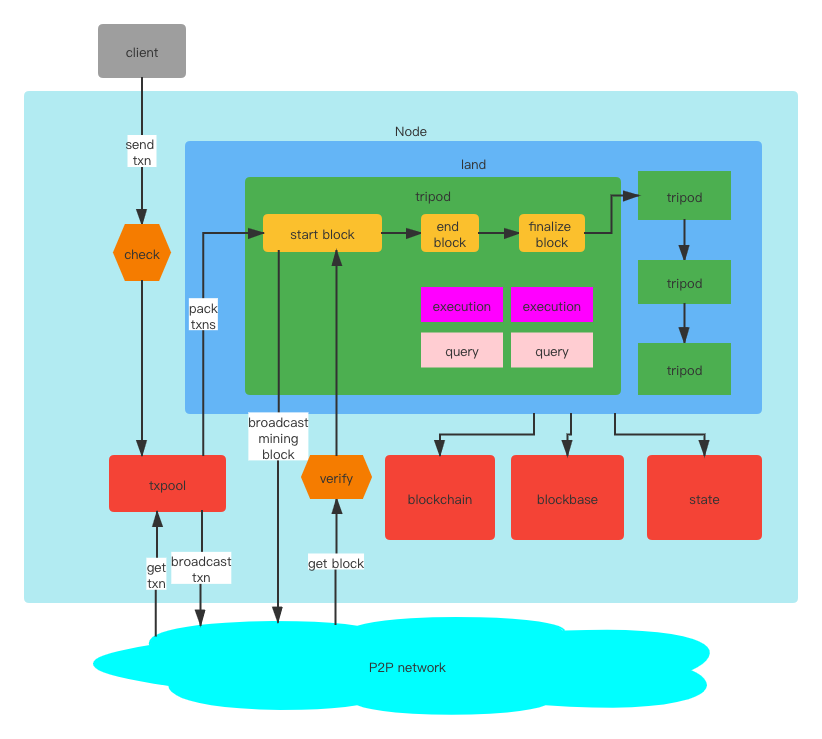
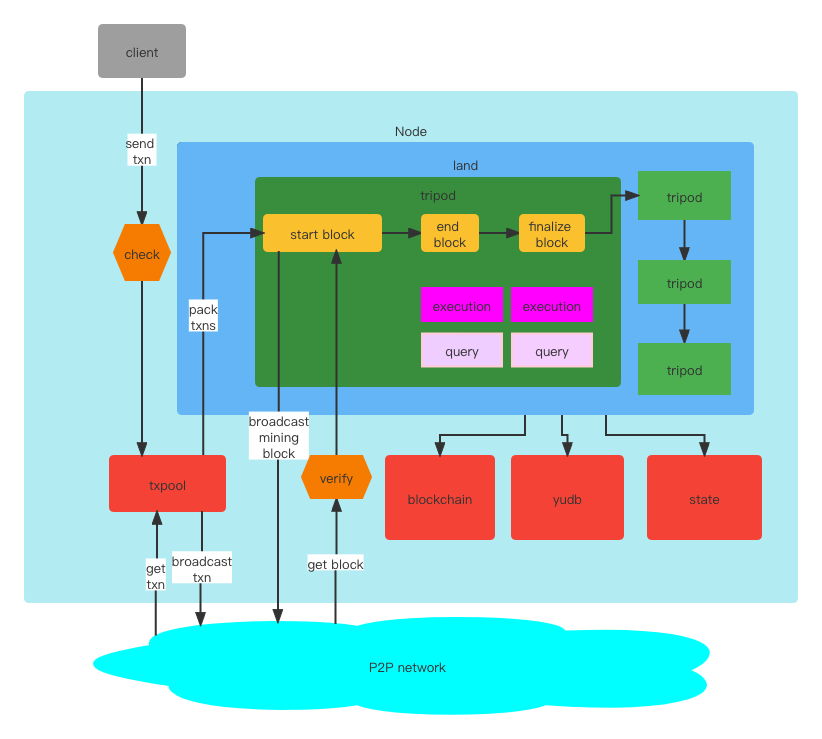
update README
Update README

add p2pHandler into README

modify comments

modify README

diff --git a/core/tripod/dev/funcs.go b/core/tripod/dev/funcs.go
@@ -14,6 +14,7 @@ type (
 	// This operation has no consensus reached in the blockchain network.
 	// respObj is a json object
 	Query func(ctx *Context, blockHash Hash) (respObj interface{}, err error)
-
+	// P2pHandler is a p2p server handler. You can define the services in P2P server.
+	// Just like TCP handler.
 	P2pHandler func([]byte) ([]byte, error)
 )

diff --git a/README.md b/README.md
@@ -9,29 +9,32 @@ Yu is a highly customizable blockchain framework.
 
 ## Introduction
 By using Yu, you can customize three levels to develop your own blockchain. The `Tripod` is for developers to 
-customize their own bussiness.     
+customize their own business.     
 First level is define  `Exection` and `Query` on chain.  
 Second level is define `blockchain lifecycle`. ( including customizable Consensus Algorithm )  
-Third level is define `basic components`, such as `block data structures`, `blockchain`, `blockbase`, `txpool`. 
+Third level is define `basic components`, such as `block data structures`, `blockchain`, `yudb`, `txpool`. 
 - Define your `Exection` and `Query` on  chain.  
 `Execution` is like `Transaction` in Ethereum but not only for transfer of Token, it changes the state on the chain and must be consensus on all nodes.  
 `Query` is like `query` in Ethereum, it doesn't change state, just query some data from the chain.  
+`P2pHandler` is a p2p server handler. You can define the services in P2P server. Just like TCP handler.  
 
 ```go
 type (
-	Execution func(*context.Context, currentBlock IBlock, *chain_env.ChainEnv) error
+    Execution func(ctx *context.Context, currentBlock *types.CompactBlock) error
 	
-	Query func(ctx *context.Context, env *chain_env.ChainEnv, blockHash common.Hash) (respObj interface{}, err error)
+    Query func(ctx *context.Context, blockHash Hash) (respObj interface{}, err error)
+
+    P2pHandler func([]byte) ([]byte, error)
 )
 ```
 - Define Your `blockchain lifecycle`, this function is in `Tripod` interface.  
 `CheckTxn` defines the rules for checking transactions(Executions) before inserting txpool.  
 `VerifyBlock` defines the rules for verifying blocks.   
-`InitChain` defines bussiness when the blockchain starts up. You should use it to define `Genesis Block`.  
-`StartBlock` defines bussiness when a new block starts. In this func, you can set some attributes( including pack txns from txpool, mining ) in the block,
+`InitChain` defines business when the blockchain starts up. You should use it to define `Genesis Block`.  
+`StartBlock` defines business when a new block starts. In this func, you can set some attributes( including pack txns from txpool, mining ) in the block,
 then you should tell the framework whether broadcast the block to other nodes or not.    
-`EndBlock` defines bussiness when all nodes accept the new block, usually we execute the txns of new block and append  block into the chain.  
-`FinalizeBlock` defines bussiness when the block is finalized in the chain by all nodes.
+`EndBlock` defines business when all nodes accept the new block, usually we execute the txns of new block and append  block into the chain.  
+`FinalizeBlock` defines business when the block is finalized in the chain by all nodes.
  
 ```go
 type Tripod interface {
@@ -40,15 +43,15 @@ type Tripod interface {
     
     CheckTxn(*txn.SignedTxn)    
 
-    VerifyBlock(block IBlock, env *ChainEnv) bool
+    VerifyBlock(block *types.CompactBlock) bool
 
-    InitChain(env *ChainEnv, land *Land) error
+    InitChain() error
 
-    StartBlock(block IBlock, env *ChainEnv, land *Land) (needBroadcast bool, err error)
+    StartBlock(block *types.CompactBlock) error
 
-    EndBlock(block IBlock, env *ChainEnv, land *Land) error
+    EndBlock(block *types.CompactBlock) error
 
-    FinalizeBlock(block IBlock, env *ChainEnv, land *Land) error
+    FinalizeBlock(block *types.CompactBlock) error
 }
 ```
 
@@ -58,28 +61,31 @@ type Tripod interface {
 `Asset Tripod` imitates an Asset function, it has `transfer accounts`, `create accounts`.  
 `QueryBalance` queries someone's account balance. It implements type func `Query`.
 ```go
-func (a *Asset) QueryBalance(ctx *context.Context, env *ChainEnv, _ Hash) (interface{}, error) {
-	account := ctx.GetAddress("account")
-	amount := a.getBalance(env, account)
-	return amount, nil
+func (a *Asset) QueryBalance(ctx *context.Context, _ Hash) (interface{}, error) {
+    account := ctx.GetAddress("account")
+    if !a.existAccount(a.ChainEnv, account) {
+        return nil, AccountNotFound(account)
+    }
+    amount := a.getBalance(a.ChainEnv, account)
+    return amount, nil
 }
 ```  
 `CreateAccount` creates an account. It implements type func `Execution`.  
 `EmitEvent` will emit an event out of the chain.  
 The error returned will emit out of the chain.
 ```go
-func (a *Asset) CreateAccount(ctx *context.Context, _ IBlock, env *ChainEnv) error {
-	addr := ctx.Caller
-	amount := ctx.GetUint64("amount")
+func (a *Asset) CreateAccount(ctx *context.Context, _ *CompactBlock) error {
+    addr := ctx.Caller
+    amount := ctx.GetUint64("amount")
 
-	if a.exsitAccount(env, addr) {
-		_ = ctx.EmitEvent("Account Exists!")
-		return nil
-	}
+    if a.existAccount(a.ChainEnv, addr) {
+    _ = ctx.EmitEvent("Account Exists!")
+    return nil
+    }
 
-	a.setBalance(env, addr, Amount(amount))
-	_ = ctx.EmitEvent("Account Created Success!")
-	return nil
+    a.setBalance(a.ChainEnv, addr, Amount(amount))
+    _ = ctx.EmitEvent("Account Created Success!")
+    return nil
 }
 ```  
 
@@ -87,13 +93,13 @@ We need use `SetExec` and `SetQueries` to set `Execution` and `Query` into `Asse
 When we set a `Execution`, we need declare how much `Lei`(耜) it consumes. (`Lei` is the same as `gas` in `ethereum` )
 ```go
 func NewAsset(tokenName string) *Asset {
-	df := NewDefaultTripod("asset")
+    df := NewDefaultTripod("asset")
 
-	a := &Asset{df, tokenName}
-	a.SetExec(a.Transfer, 100).SetExec(a.CreateAccount, 10)
-	a.SetQueries(a.QueryBalance)
+    a := &Asset{df, tokenName}
+    a.SetExec(a.Transfer, 100).SetExec(a.CreateAccount, 10)
+    a.SetQueries(a.QueryBalance)
 
-	return a
+    return a
 }
 ```  
 Finally set `Asset Tripod` into `land` in `main func`. 
@@ -103,85 +109,94 @@ func main() {
 }
 ```
 
-[Pow Tripod](https://github.com/yu-org/yu/blob/master/apps/pow/pow.go)  
-`Pow Tripod` imitates a Consensus algorithm for proof of work. It customizes the lower-level code.
+[Poa Tripod](https://github.com/yu-org/yu/blob/master/apps/poa/poa.go)  
+`Pow Tripod` imitates a Consensus algorithm for proof of authority. It customizes the lower-level code.
 - Start a new block  
 If there are no verified blocks from P2P network, we pack some txns, mine a new block and broadcast it to P2P network.
 ```go
-func (p *Pow) StartBlock(block IBlock, env *ChainEnv, _ *Land) (needBroadcast bool, err error) {
+func (h *Poa) StartBlock(block *CompactBlock) error {
+    ......
+	
+    // Get a leader who produce the block of this round. 
+    miner := h.CompeteLeader(block.Height)
+    logrus.Debugf("compete a leader(%s) in round(%d)", miner.String(), block.Height)
+	
+    // If it is not local node for this round, use other node's block and skip follows.
+    if miner != h.LocalAddress() {
+        if h.useP2pOrSkip(block) {
+            logrus.Infof("--------USE P2P Height(%d) block(%s) miner(%s)",
+            block.Height, block.Hash.String(), ToHex(block.MinerPubkey))
+            return nil
+        }
+    }
+	
+    // Pack transactions(Executions) from Txpool. 
+    txns, err := h.env.Pool.Pack(3000)
+    if err != nil {
+        return err
+    }
+    // Make blockHash from trasactions. 
+    hashes := FromArray(txns...).Hashes()
+    block.TxnsHashes = hashes
+    txnRoot, err := MakeTxnRoot(txns)
+    if err != nil {
+        return err
+    }
+    block.TxnRoot = txnRoot
+	
     ......
 
-    // get validated blocks from P2P network, if exists, use it and return.
-    pbsht, err := chain.TakeP2pBlocks(height)
+    // signs block
+    block.MinerSignature, err = h.myPrivKey.SignData(block.Hash.Bytes())
     if err != nil {
-   	logrus.Errorf("get p2p-blocks error: %s", err.Error())
+        return err
     }
-    if len(pbsht) > 0 {
-   	block.CopyFrom(pbsht[0])
-   	logrus.Infof("USE P2P block(%s)", block.Hash.String())
-   	env.StartBlock(block.Hash)
-   	return
+    block.MinerPubkey = h.myPubkey.BytesWithType()
+	
+    // Reset Txpool for the next block.
+    err = h.env.Pool.Reset(block)
+    if err != nil {
+        return err
     }
     
-    // if there are no validated blocks from P2P network, we need to mine a block.
-    needBroadcast = true
-
     ......
-
-    // pack transactions(Executions) from txpool
-    txns, err := pool.Pack(p.pkgTxnsLimit)
-    if err != nil {
-    	return
-    }
-
-    ......
-
-    // mine a hash for the new block
-    nonce, hash, err := spow.Run(block, p.target, p.targetBits)
-    if err != nil {
-        return
-    }
-
-    block.(*Block).SetNonce(uint64(nonce))
-    block.SetHash(hash)
-
-    ......
-
-    return 
+	
+    // Publish the block to P2P so that other nodes get it.
+    return h.env.P2pNetwork.PubP2P(StartBlockTopic, rawBlockByt)
 }
 ```
 - End the block  
 We execute the txns of the block and append the block into the chain.
 ```go
-func (*Pow) EndBlock(block IBlock, env *ChainEnv, land *Land) error {
-        ......
+func (h *Pow) EndBlock(block *CompactBlock) error {
+    ......
+    // Execute all transactions(executions) of this block.
+    err := h.env.Execute(block)
+    if err != nil {
+        return err
+    }
 
-        // execute the txns of the block
-	err := node.ExecuteTxns(block, env, land)
-	if err != nil {
-		return err
-	}
-
-        // append the block into chain
-	err = chain.AppendBlock(block)
-	if err != nil {
-		return err
-	}
-
-        ......
-        // flush the txpool to prepare for new txns of the next block   
-        return pool.Flush()   
+    // Append the block into the chain.
+    err = chain.AppendBlock(block)
+    if err != nil {
+        return err
+    }  
+    ......
 }
 ```
 
-- Finalize the block  
-poW does not need `finalize` stage, so the `FinalizeBlock` has no implements.  
+- Finalize the block   
+```go
+func (h *Poa) FinalizeBlock(block *CompactBlock) error {
+    return h.env.Chain.Finalize(block.Hash)
+}
+```
 
 
 Same as `Asset Tripod` , finally set `Pow Tripod` into `land` in `main function`.    
 ```go
 func main() {
-	startup.StartUp(pow.NewPow(1024), asset.NewAsset("YuCoin"))
+    startup.StartUp(poa.NewPoa(myPubkey, myPrivkey, validatorsAddrs), asset.NewAsset("YuCoin"))
 }
 ```
 
